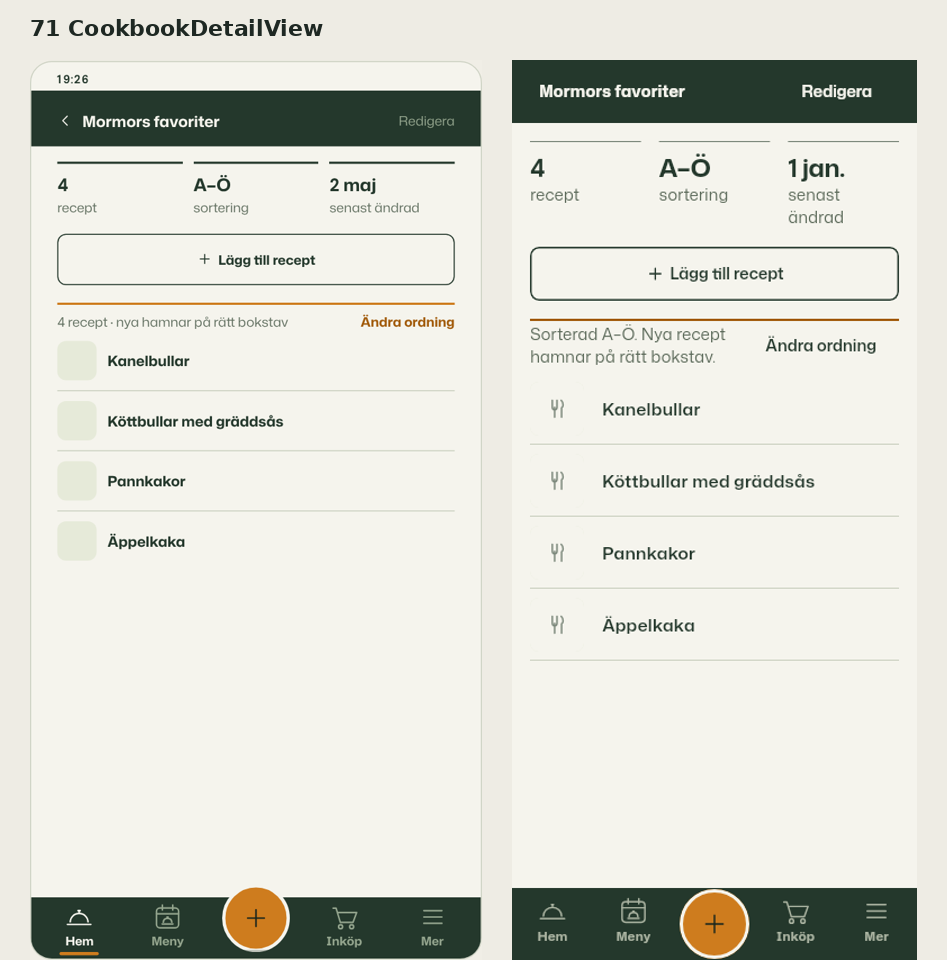
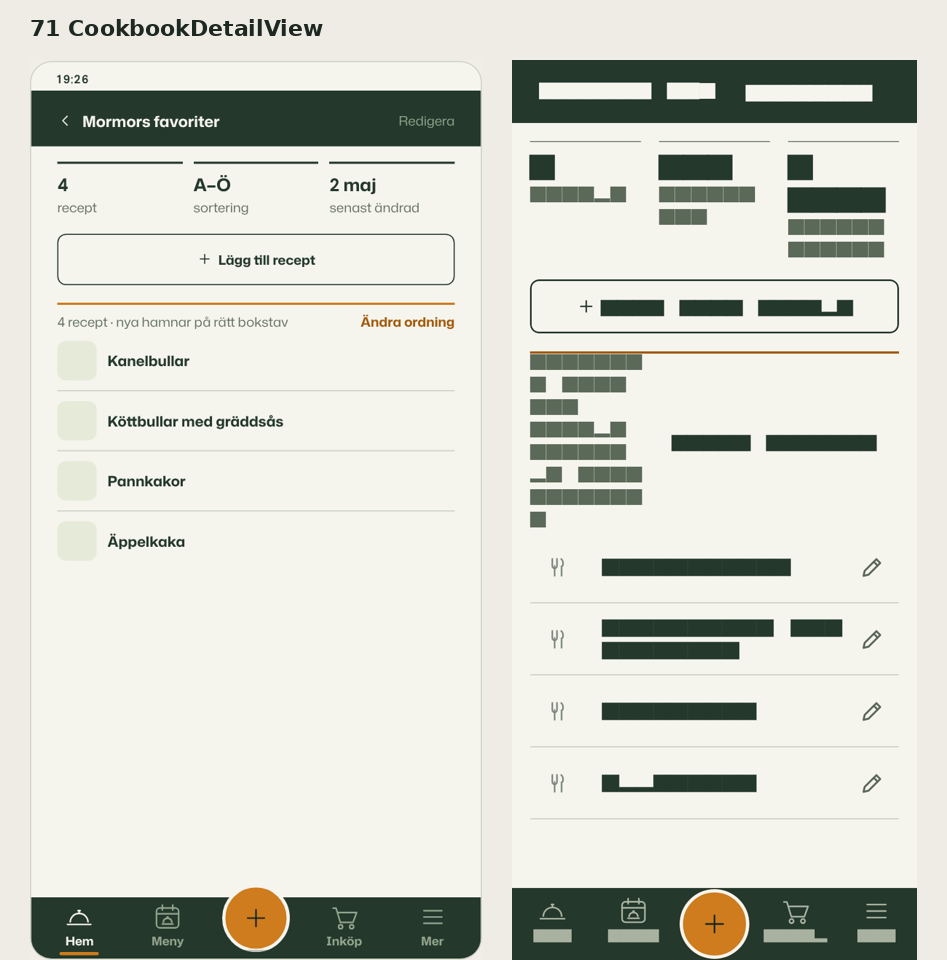
Kokbokens anteckning: pennan tillbaka på receptraden
Malin vill ha pennan kvar vid sidan av långtrycket. Bilden för vy 71 ritad om
och manifestets hashar uppdaterade.

Claude-Session: https://claude.ai/code/session_015gzFXwh5jj4yFZ4xGT9GV5

diff --git a/lib/views/cookbooks/cookbook_detail_view.dart b/lib/views/cookbooks/cookbook_detail_view.dart
@@ -309,37 +309,36 @@ class _RecipeRow extends StatelessWidget {
   @override
   Widget build(BuildContext context) {
     final l10n = context.l10n;
-    return Semantics(
-      customSemanticsActions: {
-        CustomSemanticsAction(
-          label: note == null ? l10n.cookbookWriteNote : l10n.cookbookEditNote,
-        ): onEditNote,
-      },
-      child: RecipeThumbRow(
-        recipe: recipe,
-        note: note,
-        onTap: reordering ? null : onOpen,
-        // BUT-948 exception: long-press writes the book's note for the recipe;
-        // the list is not a multi-select surface.
-        onLongPress: reordering ? null : onEditNote,
-        trailing: reordering
-            ? Row(
-                mainAxisSize: MainAxisSize.min,
-                children: [
-                  IconButton(
-                    tooltip: l10n.a11yMoveRecipeUp(recipe.title),
-                    icon: const ButleryIcon(ButleryIcons.arrowUp),
-                    onPressed: index == 0 ? null : () => onMove(-1),
-                  ),
-                  IconButton(
-                    tooltip: l10n.a11yMoveRecipeDown(recipe.title),
-                    icon: const ButleryIcon(ButleryIcons.arrowDown),
-                    onPressed: index == count - 1 ? null : () => onMove(1),
-                  ),
-                ],
-              )
-            : null,
-      ),
+    return RecipeThumbRow(
+      recipe: recipe,
+      note: note,
+      onTap: reordering ? null : onOpen,
+      // BUT-948 exception: long-press writes the book's note for the recipe;
+      // the list is not a multi-select surface.
+      onLongPress: reordering ? null : onEditNote,
+      trailing: reordering
+          ? Row(
+              mainAxisSize: MainAxisSize.min,
+              children: [
+                IconButton(
+                  tooltip: l10n.a11yMoveRecipeUp(recipe.title),
+                  icon: const ButleryIcon(ButleryIcons.arrowUp),
+                  onPressed: index == 0 ? null : () => onMove(-1),
+                ),
+                IconButton(
+                  tooltip: l10n.a11yMoveRecipeDown(recipe.title),
+                  icon: const ButleryIcon(ButleryIcons.arrowDown),
+                  onPressed: index == count - 1 ? null : () => onMove(1),
+                ),
+              ],
+            )
+          : IconButton(
+              tooltip: note == null
+                  ? l10n.cookbookWriteNote
+                  : l10n.cookbookEditNote,
+              icon: const ButleryIcon(ButleryIcons.pencil),
+              onPressed: onEditNote,
+            ),
     );
   }
 }

diff --git a/test/widget/cookbooks/cookbook_sheets_test.dart b/test/widget/cookbooks/cookbook_sheets_test.dart
@@ -502,6 +502,27 @@ void main() {
     });
 
     group('note dialog', () {
+      testWidgets('a row pencil opens the dialog for that recipe', (
+        tester,
+      ) async {
+        await openBook(
+          tester,
+          details: const CookbookDetails(recipeNotes: {'r1': 'Gammal'}),
+        );
+
+        // r1 has a note; the first "Skriv text" belongs to r2.
+        await tester.tap(find.byTooltip(l10n.cookbookWriteNote).first);
+        await tester.pumpAndSettle();
+
+        expect(
+          find.descendant(
+            of: find.byType(AlertDialog),
+            matching: find.text('Köttbullar'),
+          ),
+          findsOneWidget,
+        );
+      });
+
       testWidgets(
         'a long press on a row opens the dialog for that recipe, empty',
         (

diff --git a/test/widget/cookbooks/cookbook_detail_view_test.dart b/test/widget/cookbooks/cookbook_detail_view_test.dart
@@ -211,6 +211,9 @@ void main() {
       greaterThanOrEqualTo(tester.getBottomLeft(title).dy),
     );
     expect(tester.getTopLeft(find.text(note)).dx, tester.getTopLeft(title).dx);
+    // The row with a note offers to edit it; the others offer to write one.
+    expect(find.byTooltip(l10n.cookbookEditNote), findsOneWidget);
+    expect(find.byTooltip(l10n.cookbookWriteNote), findsNWidgets(2));
   });
 
   testWidgets('the book closes when its tag stops being a cookbook', (

diff --git a/design/fas0/andrade-filer.md b/design/fas0/andrade-filer.md
@@ -687,7 +687,7 @@ Därtill `fas0/andrade-filer.md`, som inte kan bära sin egen hash.
[8 lines of base64/hex data omitted]
